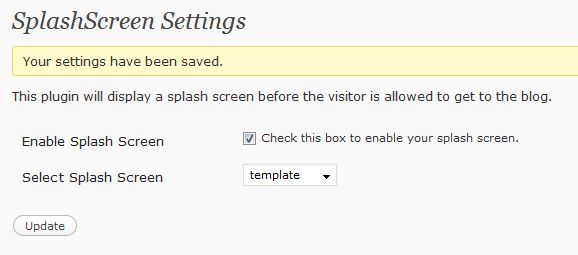
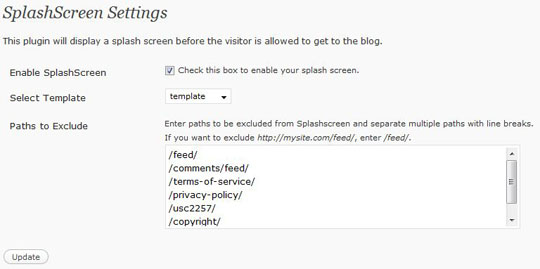
git-svn-id: https://plugins.svn.wordpress.org/splashscreen/trunk@118028 b8457f37-d9ea-0310-8a92-e5e31aec5664

diff --git a/splashscreen.php b/splashscreen.php
@@ -1,14 +1,15 @@
 <?php
 /*
 Plugin Name: SplashScreen
-Plugin URI: http://cochinoman.com/2009/02/16/wordpress-plugin-for-splash-screen/
+Plugin URI: 
 Description: Show splash screen before allowing visitor to get to blog.
 Author: djpushplay
 Author URI: http://cochinoman.com
-Version: 0.01
+Version: 0.20
 */
 
-/*  Copyright (c) 2009 Djpushplay.com.  All rights reserved. (email : info@cochinoman.com)
+/*
+	Copyright (c) 2009 cochinoman.com.  All rights reserved. (email : info@cochinoman.com)
 
 	This program is free software; you can redistribute it and/or modify
     it under the terms of the GNU General Public License as published by
@@ -29,15 +30,10 @@ class splashscreen {
 	//----------------------------------------------------------------
 	// Variables
 	//----------------------------------------------------------------
-	var $version = '0.01';
+	var $version = '0.20';
 	var $err = false;
 	var $msg = '';
 	var $allSettings = array();
-	
-	//----------------------------------------------------------------
-	// delete cookie
-	//----------------------------------------------------------------
-
 
 	//----------------------------------------------------------------
 	// Constructor
@@ -47,8 +43,11 @@ class splashscreen {
 		add_action('send_headers', array('splashscreen', 'display_splash'));
 		
 		// Admin part below
-		$data = array(	'splashscreen_type' => '',
-						'splashscreen_enable' => '');
+		$data = array(
+			'splashscreen_type' => '',
+			'splashscreen_enable' => '',
+			'splashscreen_excludedpaths' => ''
+		);
 						
 		add_option('splashscreenSettings',$data,'SplashScreen Settings');
 		add_action('admin_menu', array('splashscreen', 'addSettingsPage'));
@@ -94,8 +93,12 @@ class splashscreen {
 			$form = array();
 
 			// Fill the settings to the form
-			if( $splash->allSettings['splashscreen_enable'] ) {
+			if ($splash->allSettings['splashscreen_enable']) {
 				$form['splashscreen_enable'] = ' checked="checked"';
+			}
+			
+			if (isset($splash->allSettings['splashscreen_excludedpaths'])) {
+				$form['splashscreen_excludedpaths'] = $splash->WhitespaceToLinebreak($splash->allSettings['splashscreen_excludedpaths']);
 			}
 
 			$selection = $splash->getAvailableSplash($splash->allSettings['splashscreen_type']);
@@ -112,18 +115,26 @@ class splashscreen {
 				
 		<table class="form-table">
 			<tr valign="top">
-				<th scope="row">Enable Splash Screen</th>
+				<th scope="row">Enable SplashScreen</th>
 				<td>
 					<input type="checkbox" id="splashscreen_enable" name="splashscreen_enable" value="1"<?php echo $form['splashscreen_enable']; ?> />
 					<label for="splashscreen_enable">Check this box to enable your splash screen.</label>
 				</td>
 			</tr>
 			<tr valign="top">
-				<th scope="row">Select Splash Screen</th>
+				<th scope="row">Select Template</th>
 				<td>
 					<select name="splashscreen_type">
 						<?php echo $selection; ?>
 					</select>
+				</td>
+			</tr>
+			<tr valign="top">
+				<th scope="row">Paths to Exclude</th>
+				<td>
+					Enter paths to be excluded from Splashscreen and separate multiple paths with line breaks.<br />
+					If you want to exclude <em>http://mysite.com/feed/</em>, enter <em>/feed/</em>.<br />
+<textarea style='width:50%;' name='splashscreen_excludedpaths' id='splashscreen_excludedpaths' rows='5' ><?php echo $form['splashscreen_excludedpaths']; ?></textarea>
 				</td>
 			</tr>
 		</table>
@@ -146,8 +157,11 @@ class splashscreen {
 		if (isset($_POST['splashscreen_submit']) ) {
 			//setcookie ("splash", "", time() - 3600, "/");
 			
-			$data = array(	'splashscreen_type' => basename(base64_decode($_POST['splashscreen_type'])),
-							'splashscreen_enable' => ((int) $_POST['splashscreen_enable']));
+			$data = array(
+				'splashscreen_type' => basename(base64_decode($_POST['splashscreen_type'])),
+				'splashscreen_enable' => ((int) $_POST['splashscreen_enable']),
+				'splashscreen_excludedpaths' => $splash->LinebreakToWhitespace($_POST['splashscreen_excludedpaths'])
+				);
 			
 			update_option('splashscreenSettings', $data);
 			$splash->msg = 'Your settings have been saved.';
@@ -165,6 +179,41 @@ class splashscreen {
 		} else {
 			return $user_level > 5;
 		}
+	}
+
+	//----------------------------------------------------------------
+	// convert white space to line breaks for display
+	//----------------------------------------------------------------
+	function WhitespaceToLinebreak($input) {
+		$output = str_replace(' ', "\n", $input);
+		return $output;
+	}
+	
+	//----------------------------------------------------------------
+	// convert line breaks to white space
+	//----------------------------------------------------------------
+	function LinebreakToWhitespace($input) {
+		// Remove white spaces
+		$input = str_replace(' ', '', $input);
+	
+		// Replace linebreaks with white space, considering both \n and \r
+		$input = preg_replace("/\r|\n/s", ' ', $input);
+	
+		// Create result. We create an array and loop thru it but do not consider empty values. 
+		$sourceArray = explode(' ', $input);
+		$loopcount = 0;
+		$result = '';
+		foreach ($sourceArray as $loopval) {
+			if ($loopval <> '') {
+				// Create separator
+				$sep = '';
+				if ($loopcount >= 1) $sep = ' ';
+				// result
+				$result .= $sep . $loopval;
+				$loopcount++;				
+			}
+		}
+		return $result;
 	}
 
 	//----------------------------------------------------------------
@@ -215,33 +264,52 @@ class splashscreen {
 	}
 
 	//----------------------------------------------------------------
+	// Excluded path
+	//----------------------------------------------------------------
+	function is_excluded_url() {
+		global $splash;
+	
+		//$splash->getSettings();
+		$urlarray = $splash->allSettings['splashscreen_excludedpaths'];
+		$urlarray = preg_replace("/\r|\n/s", ' ', $urlarray);	// needed, otherwise explode doesn't work here
+		$urlarray = explode(' ', $urlarray);		
+		$oururl = 'http://'.$_SERVER['HTTP_HOST'].$_SERVER['REQUEST_URI'];
+		foreach ($urlarray as $expath) {
+			if ((!empty($expath)) && (strpos($oururl, $expath) !== false)) {
+				return true;
+			}
+		}
+		return false;
+	}
+
+	//----------------------------------------------------------------
 	// Display the splash screen if its enabled
 	//----------------------------------------------------------------
 	function display_splash() {
 		global $splash;
 		
 		$splash->getSettings();
-		
-		// Run the splash screen
-		if( $splash->allSettings['splashscreen_enable'] ) {
-			if (!isset($_COOKIE["splash"])) {
-				$dir = dirname(__FILE__) . '/';
-				@include_once($dir . $splash->allSettings['splashscreen_type']);
-				// That's all folks
-				exit();
-			}
+
+		if (($splash->allSettings['splashscreen_enable']) && (!is_admin()) && (!$splash->is_excluded_url()) && (!isset($_COOKIE["splash"]))) {
+			// display the splash screen
+			$dir = dirname(__FILE__) . '/';
+			@include_once($dir . $splash->allSettings['splashscreen_type']);
+			exit();
 		}
 	}
 }
 
 // Run the plugin
 
-function clearcookie() {
+//----------------------------------------------------------------
+// clear cookie
+//----------------------------------------------------------------
+function splashscreen_clearcookie() {
 	if (isset($_POST['splashscreen_submit']) ) {
 		setcookie("splash", "", time() - 3600, "/");	// delete cookie
 	}
 }
 $splash = new splashscreen;
 
-add_action('init', 'clearcookie');
+add_action('init', 'splashscreen_clearcookie');
 ?>
